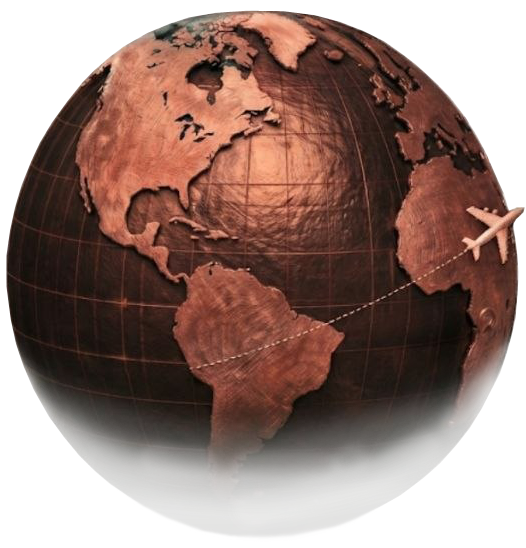
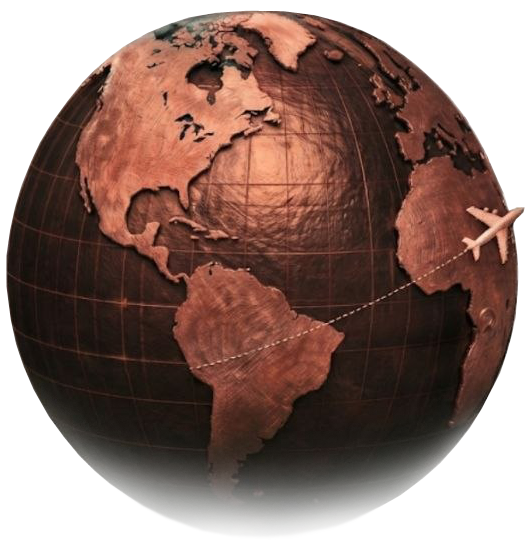
updated index

Changed region(s): [[0.0304, 0.6204, 0.9734, 0.9617]]

diff --git a/app/(tabs)/index.tsx b/app/(tabs)/index.tsx
@@ -696,13 +696,13 @@ const styles = StyleSheet.create({
     marginTop: 3,
     flexDirection: "row",
     alignItems: "center",
-    gap: 2,
+    gap: 0,
   },
-  levelCompass: { width: 32, height: 32 },
+  levelCompass: { width: 34, height: 34 },
   levelText: {
     fontFamily: "Lora_500Medium",
-    fontSize: 15,
-    color: "#5d8f5a",
+    fontSize: 16,
+    color: "#74a372",
   },
   globe: {
     position: "absolute",
@@ -739,7 +739,7 @@ const styles = StyleSheet.create({
   locationTitle: {
     textAlign: "center",
     fontFamily: "Lora_400Regular",
-    fontSize: 15,
+    fontSize: 16,
     lineHeight: 21,
     color: BrandColors.onDark,
   },
@@ -748,8 +748,8 @@ const styles = StyleSheet.create({
     marginTop: 2,
     textAlign: "center",
     fontFamily: "Lora_400Regular",
-    fontSize: 15,
-    color: BrandColors.onDarkMuted,
+    fontSize: 16,
+    color: BrandColors.onDark,
   },
   scoreLine: {
     flexDirection: "row",
